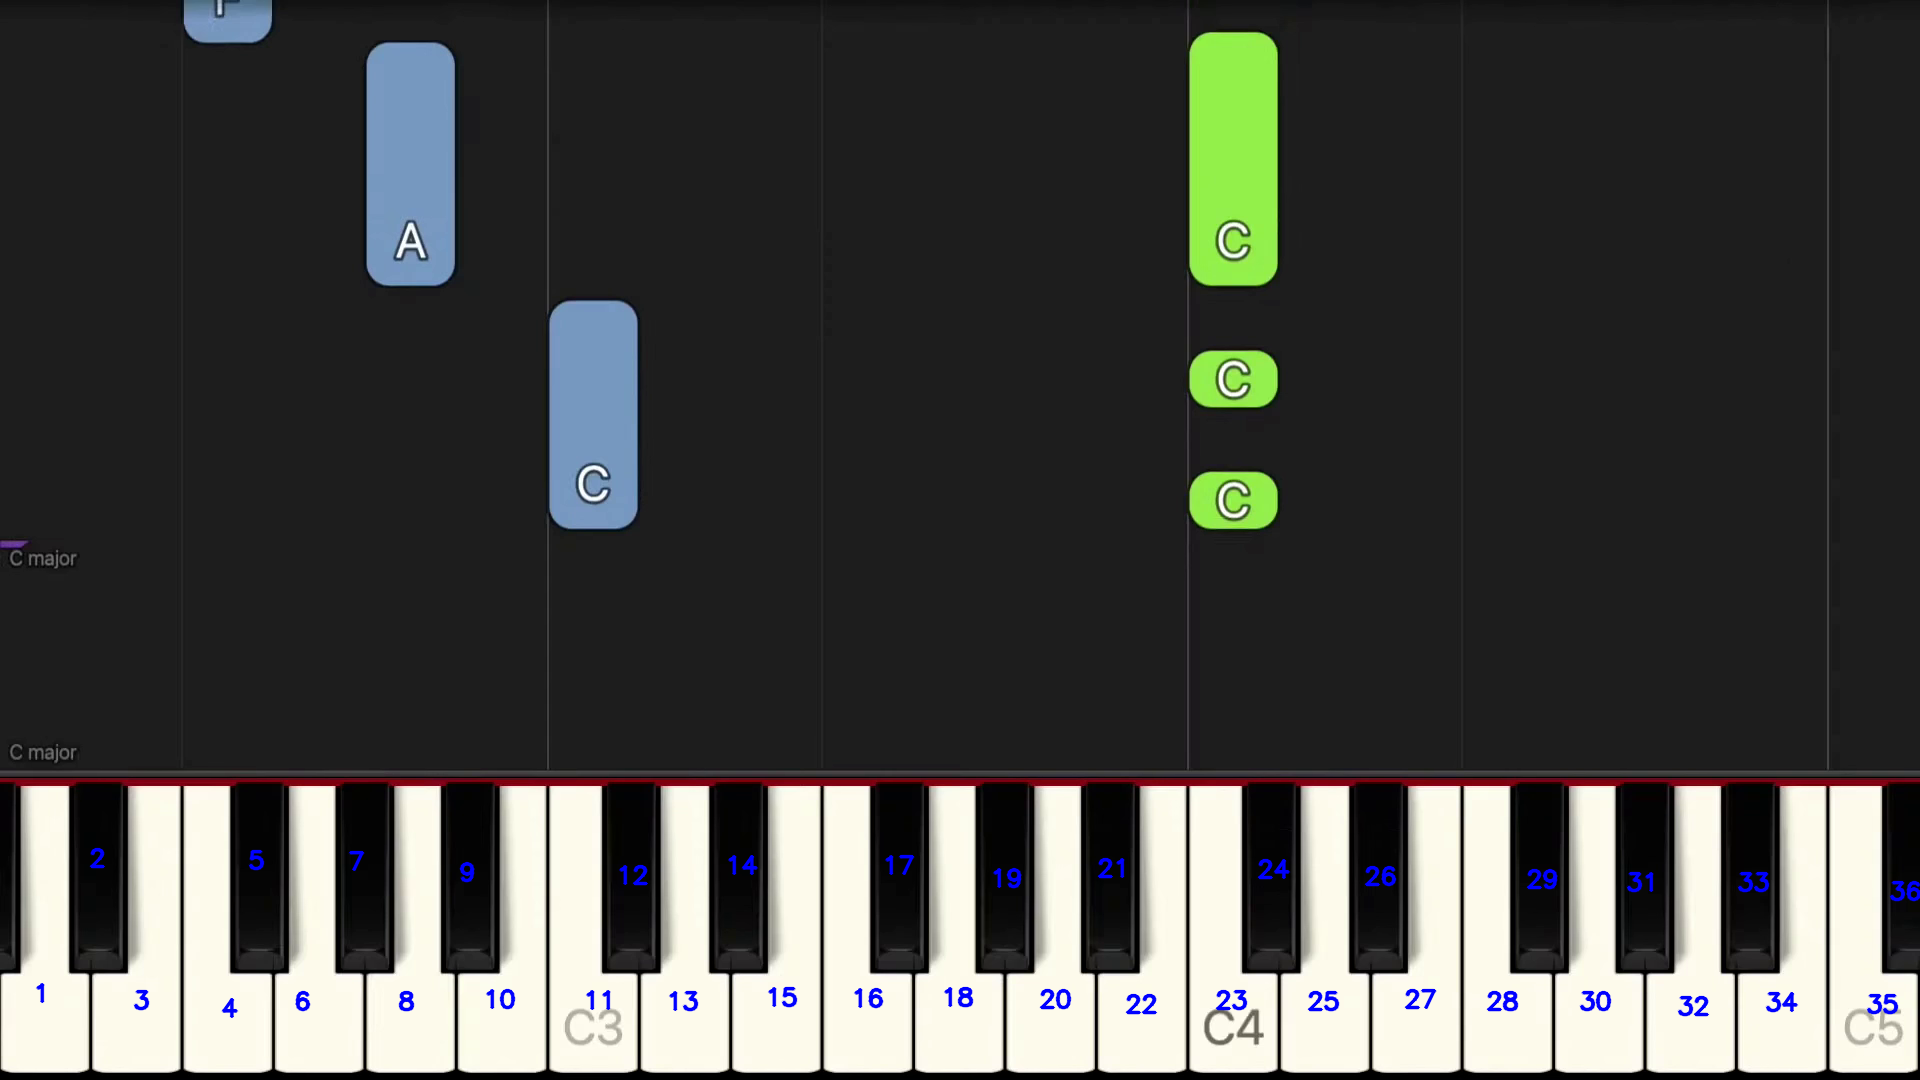
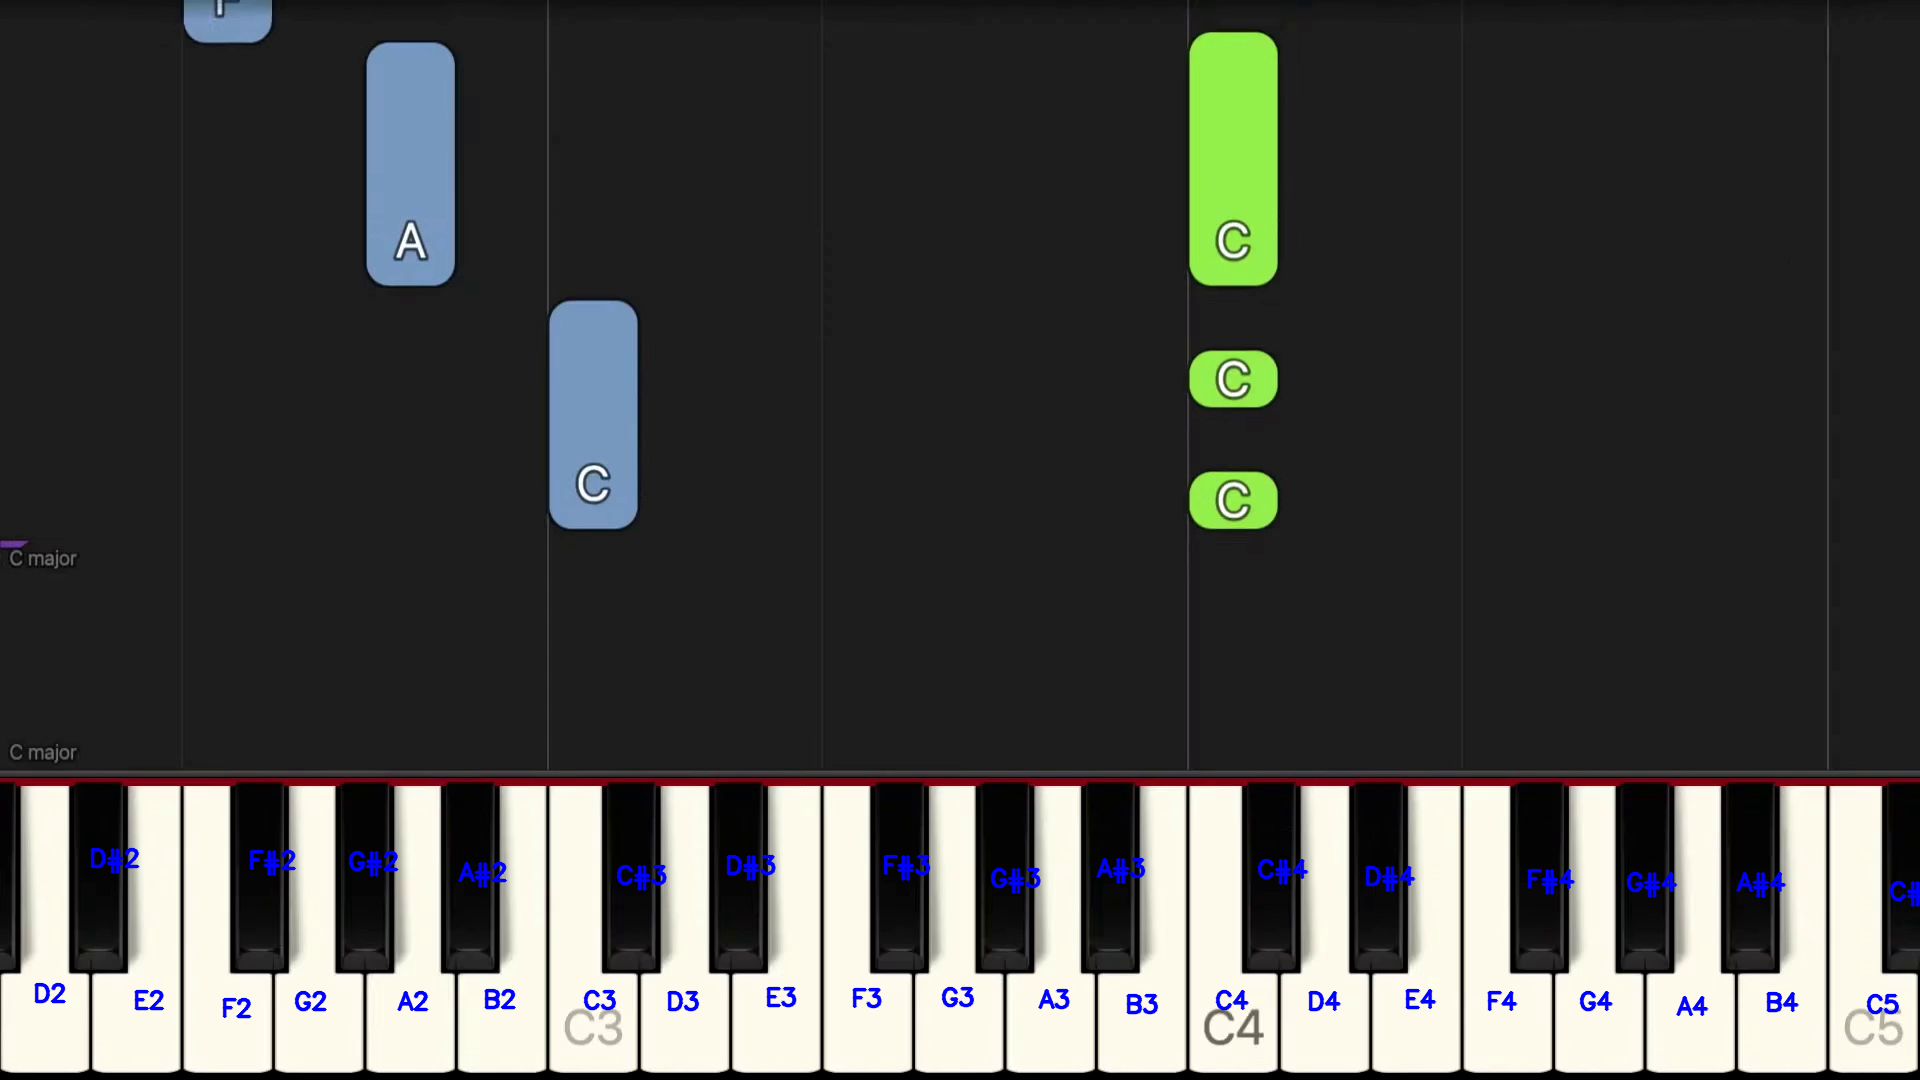
adding notes names in keyboard image

diff --git a/scripts/name_keys.py b/scripts/name_keys.py
@@ -1,0 +1,26 @@
+NOTES = ('C', 'C#', 'D', 'D#', 'E', 'F', 'F#', 'G', 'G#', 'A', 'A#', 'B')
+
+def name_keys(c3_index, number_of_keys):
+    keyboard = {}
+    octave_index = 3
+    note_position = 0
+    for note_index in range(c3_index, -1, -1):
+        key_name = NOTES[note_position] + str(octave_index)
+        keyboard[note_index] = key_name
+        note_position -= 1
+        if note_position <= 0:
+            note_position = 11
+            octave_index -= 1
+    octave_index = 3
+    note_position = 0
+    for note_index in range(c3_index, number_of_keys + 1):
+        key_name = NOTES[note_position] + str(octave_index)
+        keyboard[note_index] = key_name
+        note_position += 1
+        if note_position >= 12:
+            note_position = 0
+            octave_index += 1
+
+    return keyboard
+
+# name_keys(11, 13)

diff --git a/scripts/detect_balls.py b/scripts/detect_balls.py
@@ -1,5 +1,6 @@
 import cv2
 import numpy as np
+from name_keys import name_keys
 
 def identify_balls(balls_image_path, original_image_path, output_path):
     # Carregar as imagens
@@ -40,7 +41,8 @@ def identify_balls(balls_image_path, original_image_path, output_path):
     # Numerar as bolas da esquerda para a direita
     for balls_count, (x, y) in enumerate(balls_coordinates, start=1):
         # Desenhar o número da bola na imagem original
-        cv2.putText(original_image, str(balls_count), (x - 15, y - 15), 
+        key_name = name_keys(11, 36)[balls_count]
+        cv2.putText(original_image, key_name, (x - 15, y - 15), 
                     cv2.FONT_HERSHEY_SIMPLEX, 0.8, (255, 0, 0), 2, cv2.LINE_AA)
 
     # Salvar a imagem com os números das bolas
